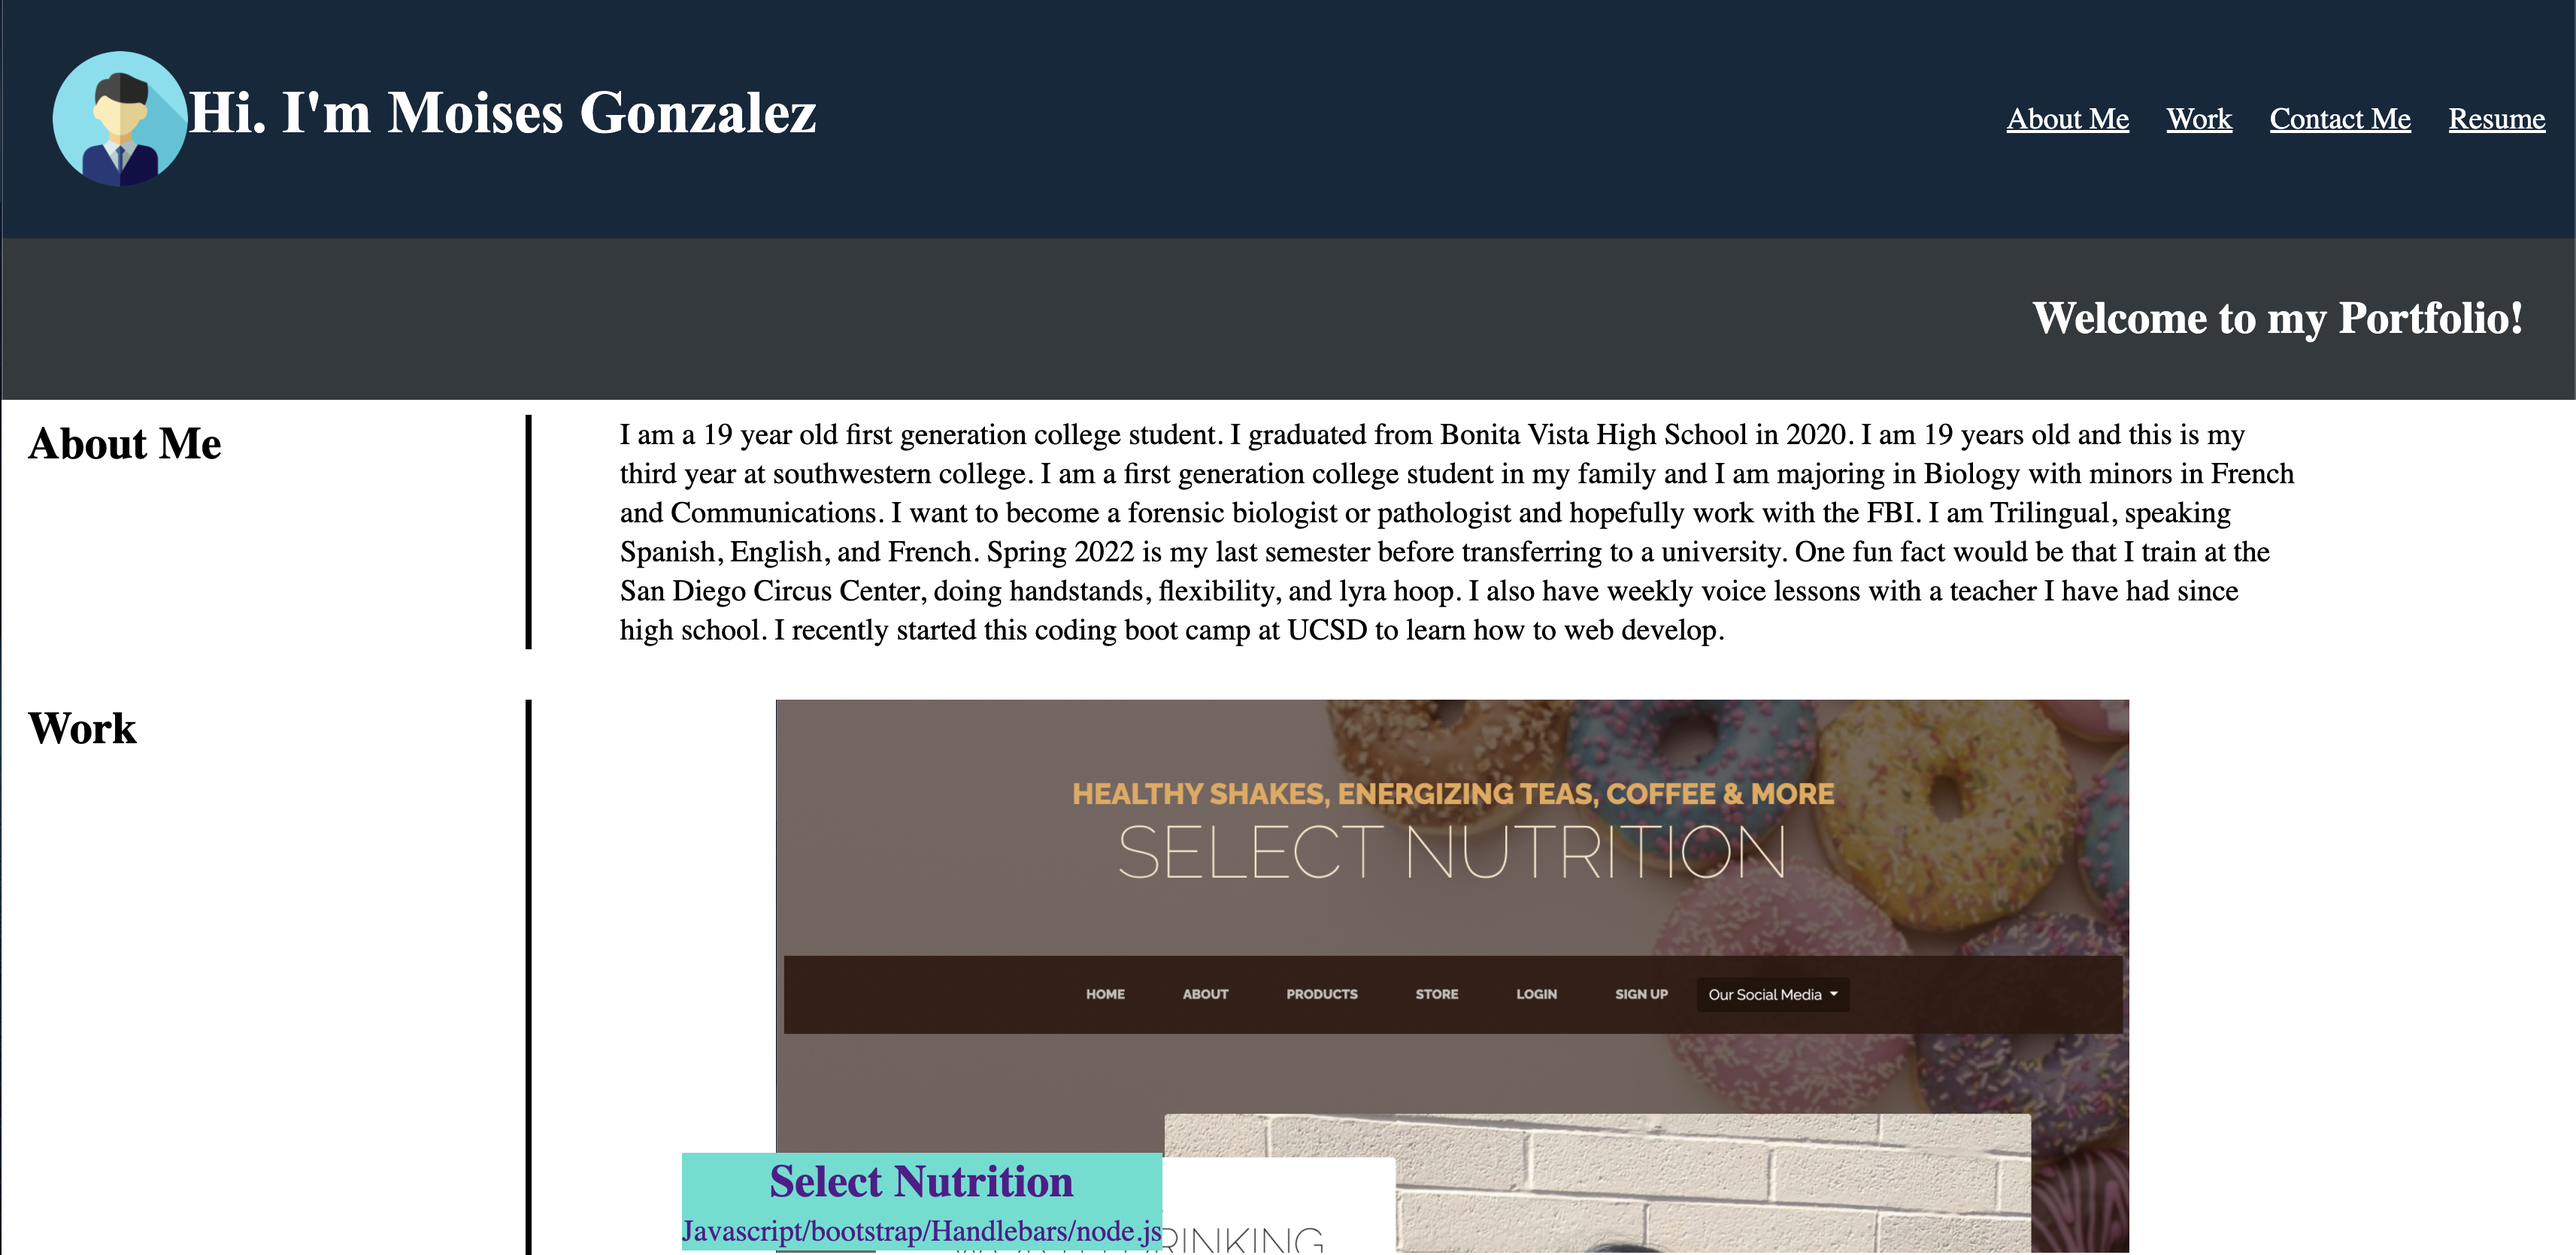
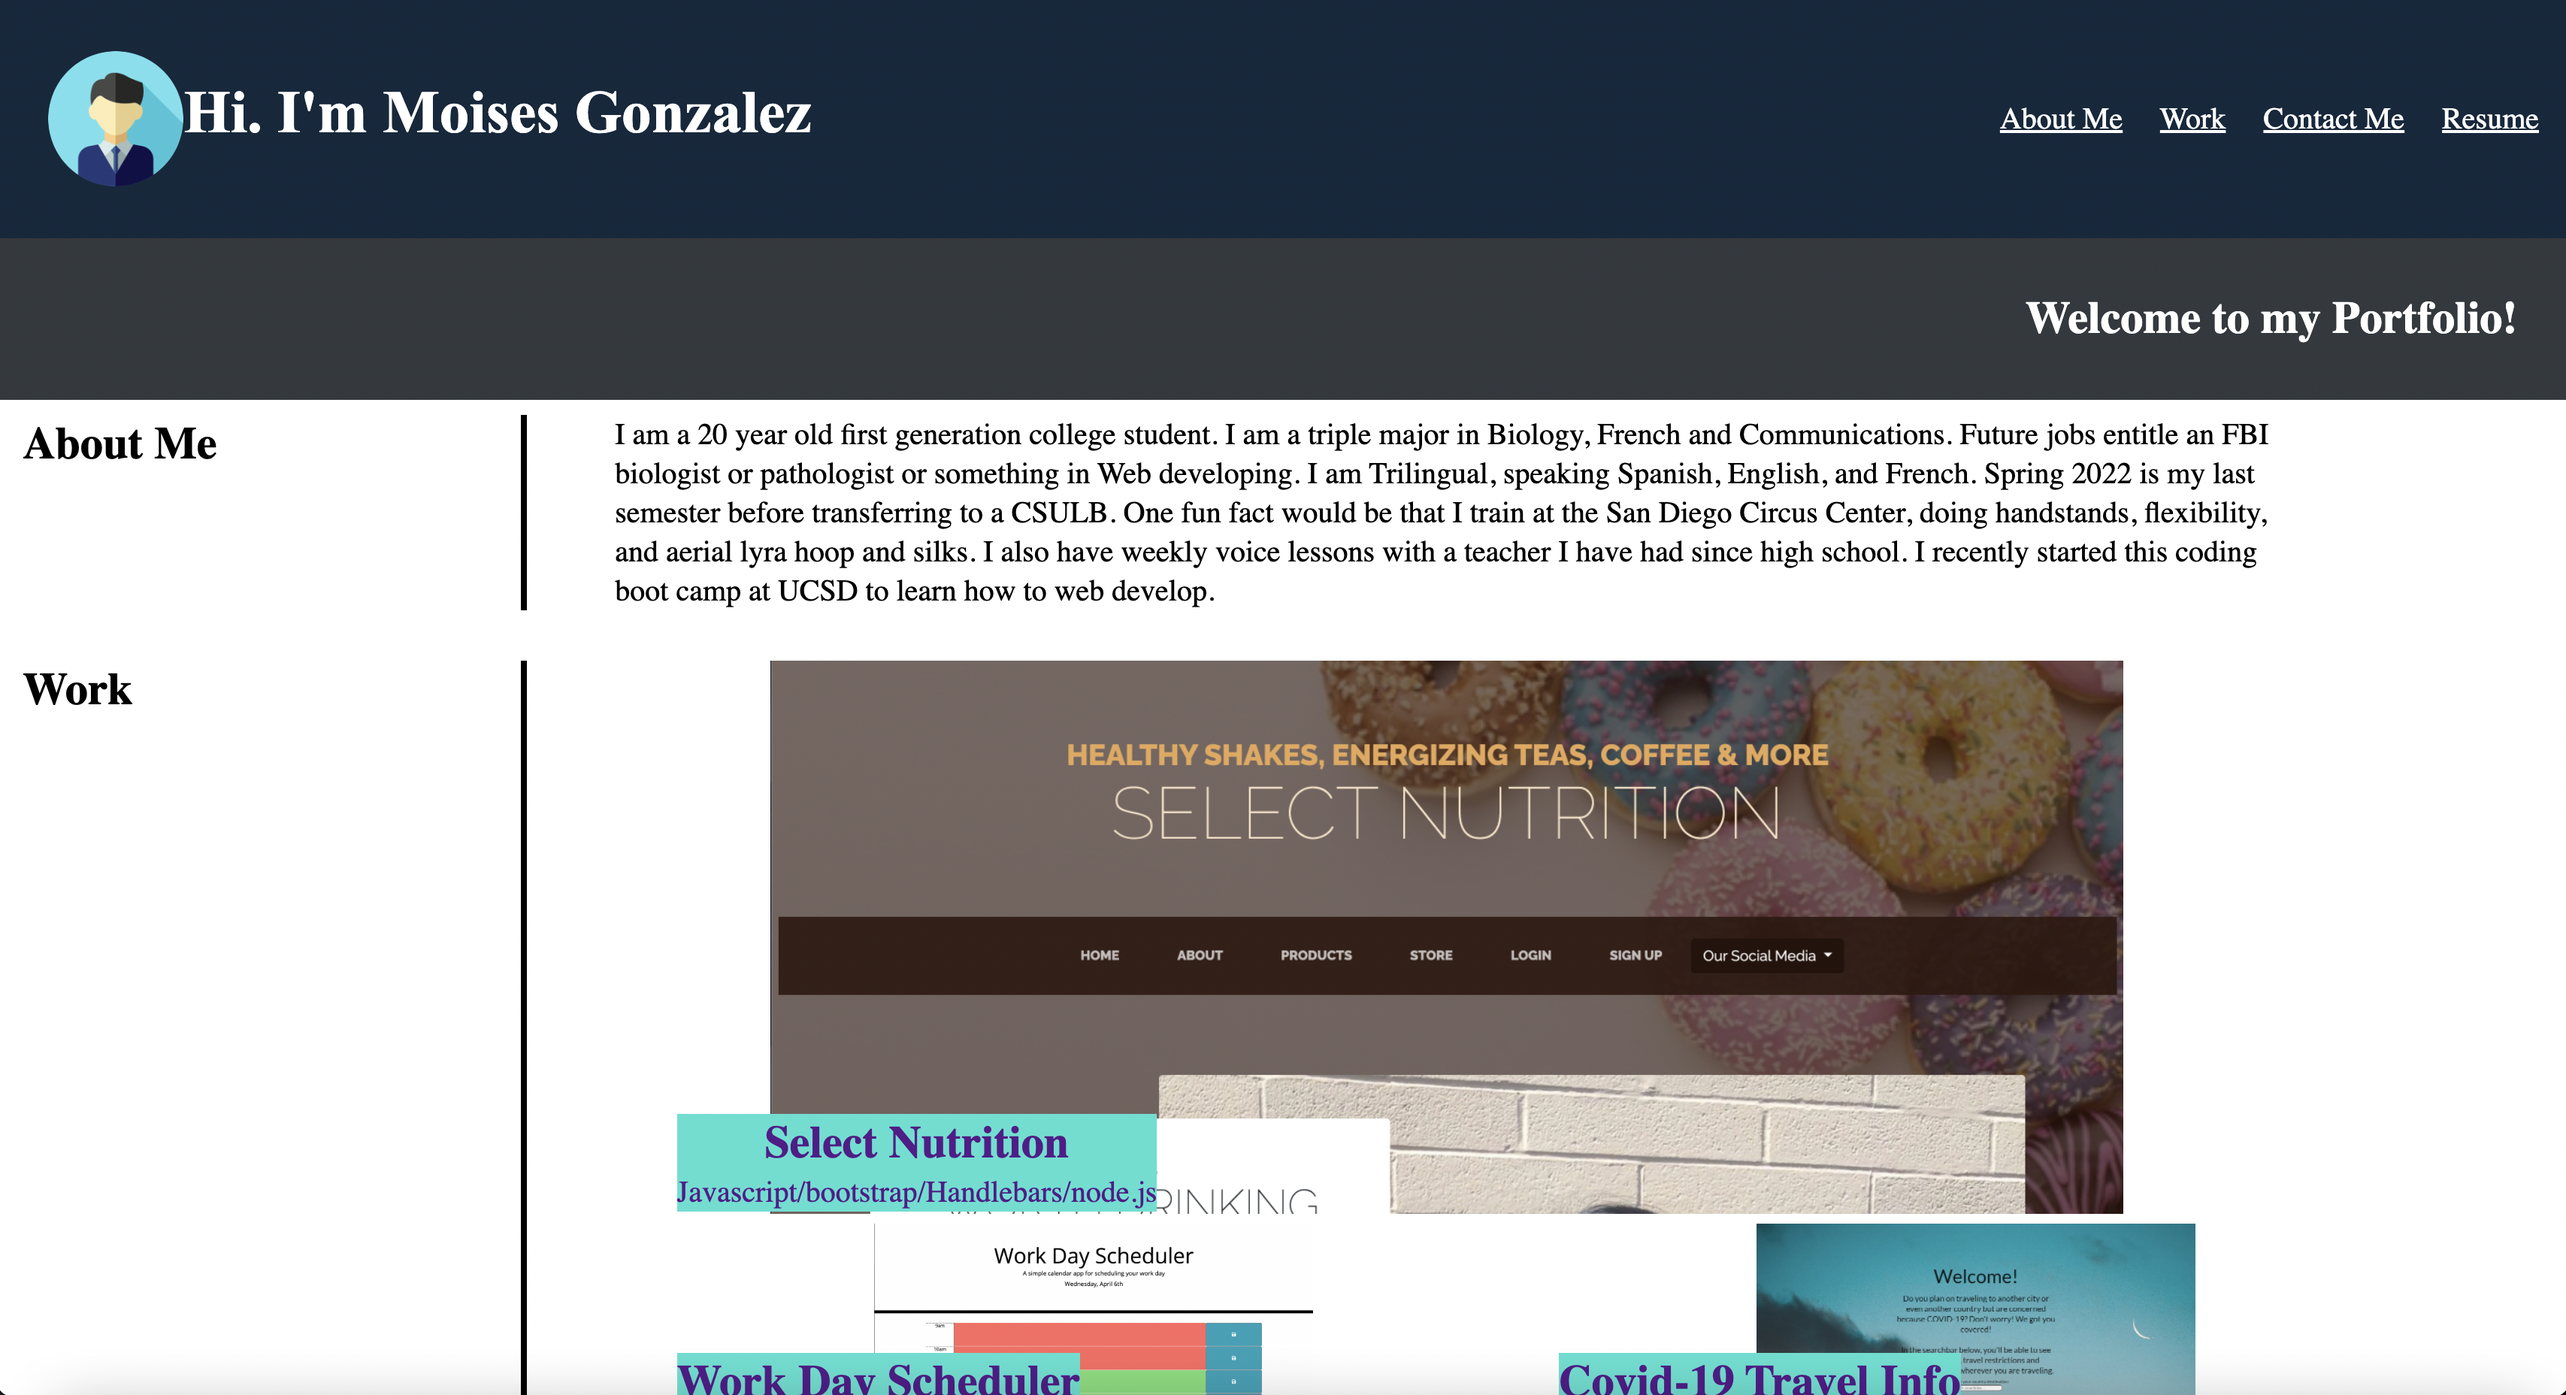
added updated screenshots to README

diff --git a/README.md b/README.md
@@ -9,5 +9,5 @@ The following pictures shows the web application's appearance and functionality:
 
 ![portfolio screenshots](assets/images/PageTop.png)
 
-![portfolio screenshots](assets/images/Work.png)
+![portfolio screenshots](assets/images/PageBtm.png)
 
